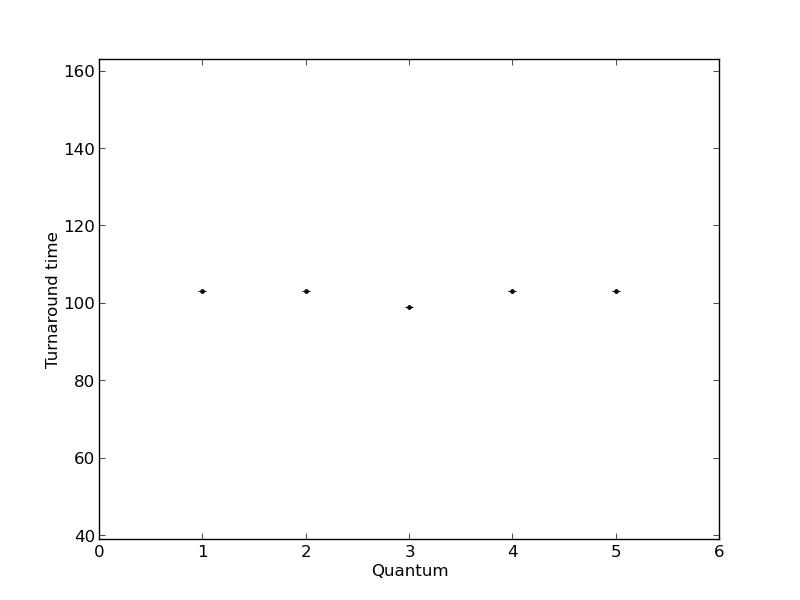
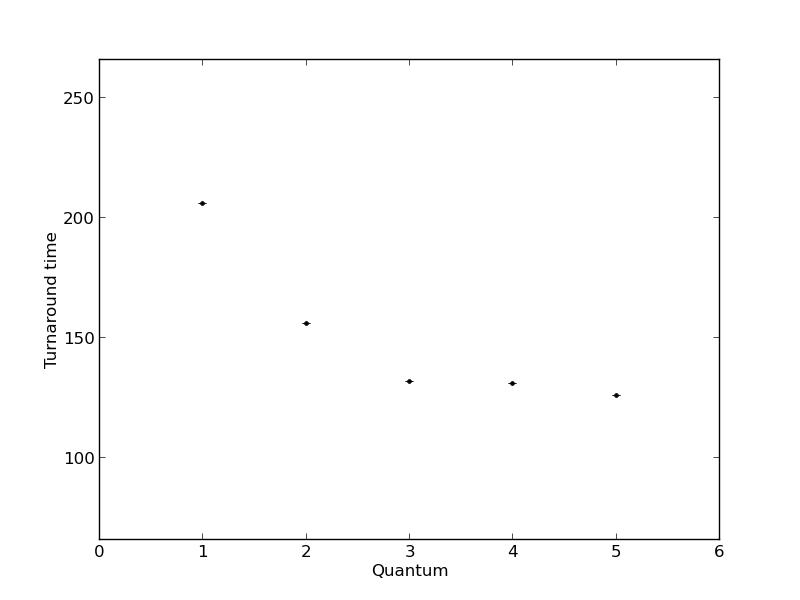
informe

diff --git a/informe/sched_lottery.tex b/informe/sched_lottery.tex
@@ -175,9 +175,9 @@ quantums, cada tarea haya sido ejecutada durante 1 quantum.
 
 
 \begin{figure}[H]
-  \centering\includegraphics[scale=0.5]{graficos/lottery_cpu.pdf}
+  \centering\includegraphics[scale=0.5]{graficos/lottery_cpu.jpg}
   \caption{SchedLottery en un lote de procesamiento cientifico. lote: *5 TaskCPU 20.
-	1 core, cambio de contexto y migración = 0, quantum = 5}
+	1 core, cambio de contexto = 1, migración = 0, quantum = 5}
 \end{figure}
 
 ~
@@ -185,17 +185,18 @@ quantums, cada tarea haya sido ejecutada durante 1 quantum.
 Efectivamente, en el recuadro negro que aparece en la figura se observa un comportamiento muy similar al de Round-Robin.
 
 \begin{itemize}
-	\item tarea 0: wt:16.5, ta:87
-	\item tarea 1: wt:10, ta:71
-	\item tarea 2: wt:16.4, ta:103
-	\item tarea 3: wt:21,PU ta:105
-	\item tarea 4: wt:20.75, ta:104
-	\item  Waiting time: 16.93
-	\item  Turnaround time: 94
-\end{itemize} 
+	\item tarea 0: wt:21, ta:105
+	\item tarea 1: wt:13, ta:86
+	\item tarea 2: wt:20.6, ta:124
+	\item tarea 3: wt:26.75, ta:128
+	\item tarea 4: wt:21, ta:126
+	\item  Waiting time: 20.47
+	\item  Turnaround time: 113.8
+\end{itemize}
+
 
 Observemos que tanto el wating time como el turn around time de cada una de las tareas no difiere demasiado entre sí (tal como hubiera sucedido en el Round-Robin).
-Si realizamos 40 corridas del mismo experimento, para un único core pero variando el quantum entre 1 y 5, obtenemos los siguientes gráficos, en donde se muestran
+Si realizamos 20 corridas del mismo experimento, para un único core pero variando el quantum entre 1 y 5, obtenemos los siguientes gráficos, en donde se muestran
 el waiting-time promedio y el $turn-around$ promedio.
 
 
@@ -209,8 +210,8 @@ el waiting-time promedio y el $turn-around$ promedio.
 	pero variando los quantums entre 1 y 5}
 \end{figure}
 
-El waiting-time promedio de 40 repeticiones para 5 cores es de 17.5, cercano al experimento particular aislado, en donde obtuvimos 16.93.
-El turn-time promedio de 40 repeticiones para 5 cores es de 85, cercano al experimento particular aislado, en donde obtuvimos 94.
+El waiting-time promedio de 20 repeticiones para 5 cores es de 22, cercano al experimento particular aislado, en donde obtuvimos 20.47.
+El turn-time promedio de 20 repeticiones para 5 cores es de 100, cercano al experimento particular aislado, en donde obtuvimos 113.8
 
 ~
 
@@ -227,6 +228,7 @@ Si comparamos los resultados obtenidos con los de un scheduler round-robin obten
 \end{figure}
 
 Tal como era esperable, para lotes con tareas de igual cantidad de tickets ambos schedulers se comportan de forma muy similar.
+Sorprende a simple vista lo similares que son los gráficos correspondientes a uno y otro Scheduler, pero realmente corresponden a experimentos distintos.
 
 
 
@@ -276,23 +278,23 @@ en cada sorteo.
 \begin{figure}[H]
   \centering\includegraphics[scale=0.5]{graficos/lottery_console.jpg}
   \caption{SchedLottery en un lote de tareas interactivas. lote: *5 TaskConsola 5 1 1.
-	1 core, cambio de contexto y migración = 0, quantum = 5}
+	1 core, cambio de contexto = 1 y migración = 0, quantum = 5}
 \end{figure}
  
 Efectivamente, en el recuadro negro que aparece en la figura se observa un comportamiento muy similar al de Round-Robin.
 
 \begin{itemize}
-  \item tarea 0: wt:9.5, ta:30
-  \item tarea 1: wt:2, ta:15
-  \item tarea 2: wt:3.2, ta:27
-  \item tarea 3: wt:2.5, ta:21
-  \item tarea 4: wt:9, ta:29
-  \item Waiting time promedio: 5.24
-  \item Turnaround time promedio: 24.4
+  \item tarea 0: wt:8.16667, ta:60
+  \item tarea 1: wt:3.16667, ta:30
+  \item tarea 2: wt:7.16667, ta:54
+  \item tarea 3: wt:5.16667, ta:42
+  \item tarea 4: wt:7.83333, ta:58
+  \item Waiting time promedio: 6.3
+  \item Turnaround time promedio: 48.8
 \end{itemize}
 
 En esta corrida en particular el desvío estandar de ambas métricas es bastante grande, aunque interviene mucho el factor pseudoaleatorio.
-Al repetir el experimento 40 veces con los mismos parámetros, variando los quantums entre 1 y 5 obtenemos:
+Al repetir el experimento 20 veces con los mismos parámetros, variando los quantums entre 1 y 5 obtenemos:
 
 
 \begin{figure}
@@ -305,6 +307,46 @@ Al repetir el experimento 40 veces con los mismos parámetros, variando los quan
 	pero variando los quantums entre 1 y 5}
 \end{figure}
 
-Comparando con el Round-Robin para el mismo lote:
+Comparando con el Round-Robin para el mismo lote, nuevamente obtenemos valores muy similares. El mismo comportamiento analizado en el lote CPU puede
+observarse tambien en el lote interactivo, para tareas que se bloquean la misma cantidad de ticks.
 
-ARREGLAR: se está imprimiendo mal el waiting time del wtta.cpp y wtta2.cpp
+\begin{figure}
+\hfill
+\subfigure[]{\includegraphics[width=8.75cm]{graficos/console_rr_ta.jpg}}
+\hfill
+\subfigure[]{\includegraphics[width=8.75cm]{graficos/console_rr_wt.jpg}}
+\hfill
+\caption{Turn around time y waiting time del RoundRobin del lote de procesamiento interactivo con los mismos parámetros,
+	pero variando los quantums entre 1 y 5}
+\end{figure}
+
+~
+
+\textbf{\underline{Lote variado: Apreciación de los compensation tickets}}
+
+Los lotes en donde nos damos cuenta de la diferencia que marcan los compensation tickets es en aquellos que son mixtos. Combinan tareas bloqueantes con no
+bloqueantes, por lo que estas últimas deberían tener más tickets y por lo tanto, ganar más sorteos y reducir el turn around time.
+
+\begin{figure}[H]
+  \centering\includegraphics[scale=0.5]{graficos/mixto.png}
+  \caption{SchedLottery en un lote de tareas mixto. lote: TaskConsola 5 4 4, *2 TaskCPU 20.
+	1 core, cambio de contexto = 1 y migración = 0, quantum = 4}
+\end{figure}
+
+\begin{itemize}
+	\item tarea bloqueante: wt:7.5, ta:51
+	\item tarea cpu: wt:7.8, ta:65
+	\item tarea cpu: wt:8, ta:61
+	\item  Waiting time: 7.76667
+	\item  Turnaround time: 59
+\end{itemize}
+
+Hay que destacar que la tarea bloqueante gana muchos más sorteos que las otras dos tareas de procesamiento, ya que dispone de 4 tickets (las otras 2 cuentan con 1 único tickets).
+No es casualidad que la tarea bloqueante disponga del waiting time más bajo de todas.
+
+~
+
+\textbf{\underline{Sin la optimización de compensation tickets}}
+
+Sin las optimizaciones, tal como mencionamos anteriormente, el scheduler se comporta muy similar a un round robin, ya que todas tienen las mismas probabilidades de salir sorteadas.
+
